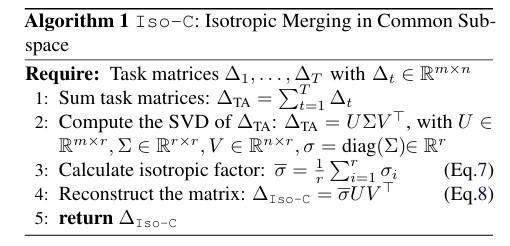
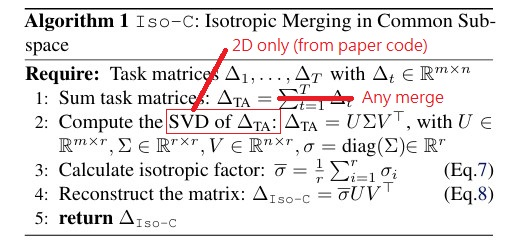
iso-c

Changed region(s): [[0.3235, 0.1423, 0.8824, 0.4553], [0.3235, 0.5122, 0.5588, 0.5691]]

diff --git a/ch01/isotropic.md b/ch01/isotropic.md
@@ -6,12 +6,11 @@ I will focus on `Iso-C` only. `Iso-CTS` is too complicated to implement.
 
 ![25060701.jpg](./img/25060701.jpg)
 
-Parameter $\sigma$ can be further reduced to hyper parameter instead of calculated value. [Reference in a 3rd party merger.](https://tanganke.github.io/fusion_bench/algorithms/isotropic_merging/)
+Paper: [No Task Left Behind: Isotropic Model Merging with Common and Task-Specific Subspaces](https://arxiv.org/abs/2502.04959)
 
-$\sigma=1.0$ still have minimal effect because of [denoising effect](https://medium.com/@maydos/image-processing-with-singular-value-decomposition-ce8db3f78ce0) (applies to any LR algo like PCA and tSNE).
+Code: [iso.py](https://github.com/danielm1405/iso-merging/blob/main/src/utils/iso.py)
 
 The "sum task matrices" can be reduced to any merged state. If `n_average` $\Delta_{TA} = \frac{1}{r} \Sigma_{i=1}^r \theta_{i}$ works, "any working model or model state" will work also.
 
-May have no effect. Also I'll make a PoC may not import sd_mecha because it is technically "a fix".
+However, after experiment, it suffers from failed to preserve attention. Content has lost focus and being deformed.
 
-Paper: [No Task Left Behind: Isotropic Model Merging with Common and Task-Specific Subspaces](https://arxiv.org/abs/2502.04959)
